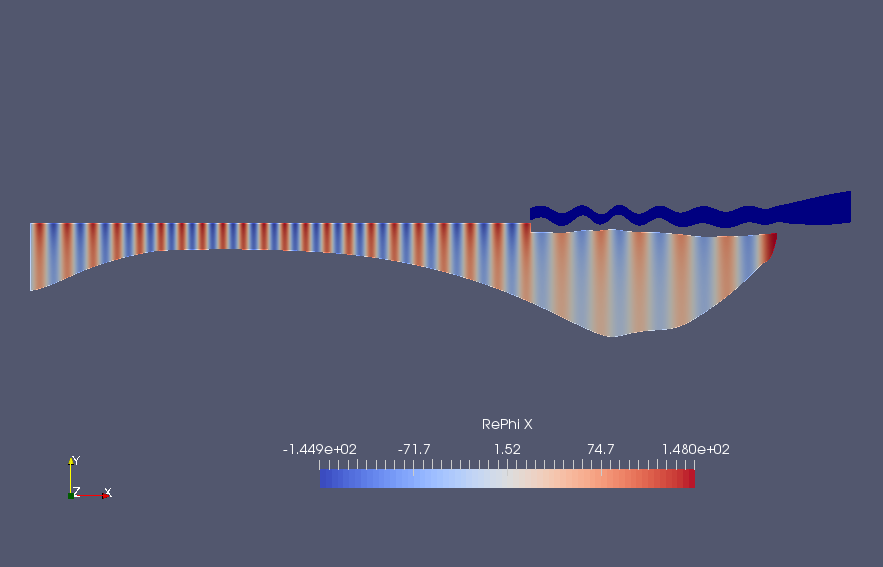
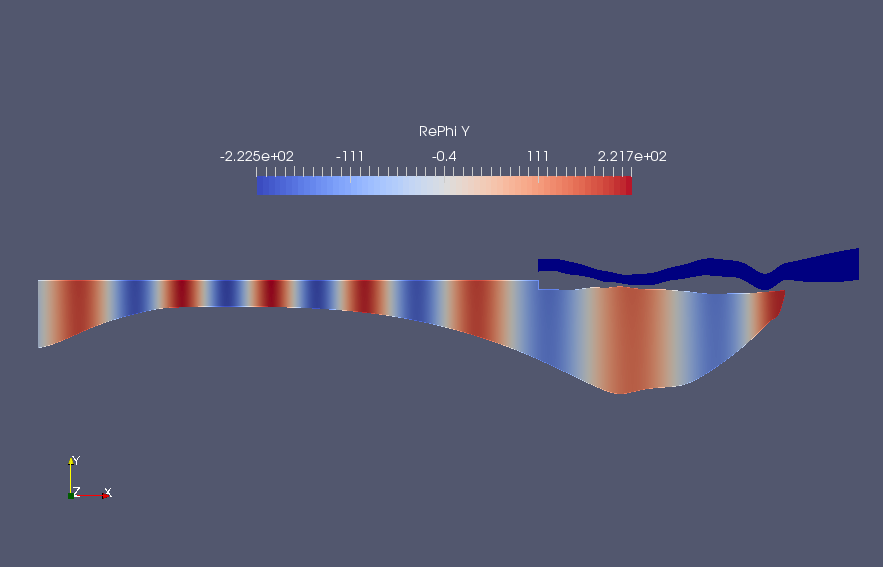
Update README and code

diff --git a/thinPlate.m b/thinPlate.m
@@ -2,10 +2,10 @@ clear
 clc
 
 [~,~,~,~,E,nu,rhow,rhoi,g,~]=getProperties();
-H=500;
-L=20000;
+H=800;
+L=10000;
 th=200;
-T=80;
+T=200;
 omega=2*pi/T;
 d=(rhoi/rhow)*th;
 NModes = 10;
@@ -33,7 +33,6 @@ for m=1:length(xpts)
 end
 
 figure(1)
-subplot(2,1,2);
 plot(xpts,Ufd,'linewidth',3);
 xlim([xpts(1),xpts(end)]);
 hold on

diff --git a/modules/getProperties.m b/modules/getProperties.m
@@ -8,7 +8,7 @@ rhow = 1025;
 rhoi = 922.5;
 d = rhoi/rhow*th;
 
-E = 11*10^9;
+E = 2*10^9;
 nu = 0.33;
 g = 9.80665;
 

diff --git a/README.md b/README.md
@@ -1,5 +1,13 @@
 # iceFEM++
 
+## Dependencies
+- [**FreeFem**](https://freefem.org):
+    A high level multiphysics finite element software. Full version with the `MPI` implementation and the `ffddm` module is required. The full version can be downloaded from the official website.
+- [**Bedmap2 Toolbox**](https://au.mathworks.com/matlabcentral/fileexchange/42353-bedmap2-toolbox-for-matlab):      
+    To obtain real--life shelf/cavity data. This is available as a MATLAB toolbox.
+- **MATLAB**: This is really not a constraint if you are using the package without the BEDMAP2 plugin. Interpolation and related operations can be done using other packages. However, a list of `MATLAB` scripts are available for this purpose to make things easier.
+- **Unix based OS:** Currently this program is written assuming a Unix based Operating system. Future support for windows will be added.
+
 ## Introduction
 
 This iteration of iceFEM implements the algorithms in parallel with an aim to solve bigger problems. For this implementation, the program requires the ``MPI`` version of FreeFem installed. If the full program is installed, the parallel version is available by default. For the main branch visit the link [here](https://github.com/Balaje/iceFem/tree/master). The schematic and
@@ -13,7 +21,7 @@ To setup and use the package, cd into the package directory, open up terminal an
 ```shell
 export FF_INCLUDEPATH="$PWD/include" #Add the include/ folder into the FreeFem++ environment variable. Needs to be run for the first time.
 ./genDir.sh 1_SIMPLE5/
-mpirun -np 4 FreeFem++-mpi -v 0 simple5.edp
+mpirun -np 2 FreeFem++-mpi -v 0 iceshelf2d.edp -nev 16 -Tr 80 -hsize 0.05 -notchHeight 0.0 -isUniRef 0 -isSplit 1 -N 15
 ```
 
 The second command creates the necessary directory structure for organising the solution better. The last command computes the solution for a default uniform ice-shelf and cavity with
@@ -35,23 +43,24 @@ mpirun -np 4 FreeFem++-mpi -ne -v 0 simple5.edp -L [LENGTH] -H [DEPTH OF CAVITY]
                                  -isSplit [ON/OFF DOMAIN SPLITTING]
                                  -notchHeight [HEIGHT_FRAC_THICKNESS]
                                  -notchWidth [HEIGHT_FRAC_THICKNESS]
-                                 -notchLoc [LOC_FRAC_LENGTH]
+                                 -notchLoc [LOC_FRAC_LENGTH]   
+                                 -isUniRef [ON/OFF Uniform Refinement]                              
 ```
 
-To specify the dimension of the problem and the polynomial order of approximation, define the following macros in the code
+The non-uniform refinement is performed proportional to shelf thickness. To specify the dimension of the problem and the polynomial order of approximation, define the following macros in the code
 
 ```cpp
-macro dimension 3//EOM" (dim=3)
-macro fspace 1//EOM" (fespace=P1)
+macro dimension 2//EOM" (dim=3)
+macro fspace 2//EOM" (fespace=P1)
 ```
 
 to solve a 3D problem using linear tetrahedral elements. Note that FreeFem offers support only for triangles/tetrahedrons. The non-local boundary condition has been extended to accommodate  more general cases.
 
 
-**Example: Run**
+**Example 1: Run**
 
 ```shell
-mpirun -np 4 FreeFem++-mpi -ne -v 0 simple5.edp -L 10000 -H 800 -h 200 -N 4 -Tr 200 -Ti 0 -iter 0 -hsize 0.01 -isSplit 1
+mpirun -np 4 FreeFem++-mpi -ne -v 0 iceshelf2d.edp -L 10000 -H 800 -h 200 -N 10 -Tr 200 -Ti 0 -iter 0 -hsize 0.04 -isSplit 1
 ```
 
 The parameter ``hsize`` is used in uniform refinement of the ice and cavity meshes and is used by the macro ```refineMesh```. A better method will be added in future releases. Splitting is employed to parallelise the computation of the reduced system. For a set of space-dimensional parameters for example, length, thickness of the ice shelf, splitting can be done once. This is achieved using the macro,
@@ -59,80 +68,69 @@ The parameter ``hsize`` is used in uniform refinement of the ice and cavity mesh
 ``` cpp
 splitMesh(isSplit);
 ```
-where ```isSplit``` is a global variable that indicates whether the splitting is active or not. The splitting macro will split the mesh and distribute the sub-meshes among the processors. The following data for the reflection coefficient is obtained.
+where ```isSplit``` is a global variable that indicates whether the splitting is active or not. The splitting macro will split the mesh and distribute the sub-meshes among the processors. The following data for the reflection coefficient is obtained. The thin-plate solution is shown as comparison to the FEM result.
 
-| Reflection Coefficient, R | abs(R) |
------ | ---- |
-| (0.792773933482978,0.6095157835447178) | 1.000000000000102 |
+Model | Reflection Coefficient, R | abs(R) |
+---- |----- | ---- |
+FEM | (0.482959,0.875643) | 1.000000 |
+Thin Plate| (0.493626,0.869740) | 1.000000 |
 
 All the visualization is performed using Paraview. The code produces the following outputs for the displacement field and the velocity potential in the cavity region.
 
-| Displacement | real(Velocity Potential)|
+| Displacement/Potential (FEM) | Displacement (ThinPlate) |
 | --- | ---- |
 |  ![Displacement](./Images/ReDisp1.png) | ![Velocity Potential](./Images/RePhi1.png) |
 
 
+**Example 2: Floating elastic plate Motion**
 
+Run:
+```shell
+mpirun -np 2 FreeFem++-mpi -v 0 iceberg.edp -N1 20 -N2 30 -Tr 40 -L 3000 -H 2000 -h 200 -nev 8 -iter test
+```
+solves the floating elastic plate vibration problem for an incident period of ``T=40s``. The output is shown in the Figure below:
+
+![Displacement](./Images/iceberg1.png)
+
+The reflection and transmission coefficients are shown in the Table below:
+
+omega | R(omega) | T(omega) | abs(R)^2+abs(T)^2 |
+--- | --- | --- | --- |
+T=40 s | (0.475792,-0.647576) | (0.479653,0.352414) | 1.00000 |
+
+which verrify the energy conservation result. Note that `T(omega)=0` in ice--shelf case since there is no transmission. The Q-operator boundary condition is applied on both the ends while the wave forcing function is applied only on the left hand side (inlet boundary).
 
 
 ## BEDMAP2 Integration
 
 Real-life ice-shelf profiles can be obtained using the BEDMAP2 dataset to generate the finite element meshes. Download the BEDMAP2 dataset [here](https://www.mathworks.com/matlabcentral/fileexchange/42353-bedmap2-toolbox-for-matlab). The BEDMAP2 dataset is integrated with the code in a similar fashion to the [main branch](https://github.com/Balaje/iceFem/tree/master#bedmap2-integration). The profiles are generated using the MATLAB code ```bedMapProfile.m```. Once the profiles are generated, the resulting problem could be solved using the FreeFem code.
 
-A sample profile has been added in the ```Meshes/BEDMAP2/``` folder. The sample profiles include the cavity region beyond the ice shelf. Run the following command to generate the solution for two incident wave periods.
+A sample profile has been added in the ```Meshes/BEDMAP2/``` folder. The sample profiles include the cavity region beyond the ice shelf. To generate the directories for BEDMAP2. Run
 
 ```shell
-mpirun -np 4 FreeFem++-mpi -ne -v 0 solveBEDMAP2.edp -nborders 6 -isMesh 1 -iter 1 -hsize 0.02 -Tr 50 -notchHeight 0.0 -N 12
-mpirun -np 4 FreeFem++-mpi -ne -v 0 solveBEDMAP2.edp -nborders 6 -isMesh 0 -iter 0 -hsize 0.02 -Tr 5000 -notchHeight 0.0 -N 12
+./genDir.sh 1_BEDMAP2
+```
+
+ Run the following command to generate the solution for two incident wave periods.
+
+```shell
+mpirun -np 2 FreeFem++-mpi -ne -v 0 solveBEDMAP2.edp -isMesh 1 -iter 1 -hsize 0.08 -Tr 200 -notchHeight 0.0 -N 5
+mpirun -np 2 FreeFem++-mpi -ne -v 0 solveBEDMAP2.edp -isMesh 0 -iter 1 -hsize 0.08 -Tr 4000 -notchHeight 0.0 -N 5
 ```
 
 and it produces the following outputs. Note the scales along the ``y`` axis is exaggerated for better visualization.
 
-| T=50 s | T=5000 s |
+| T=200 s | T=6000 s |
 | --- | --- |
 | ![BEDMAP 1](./Images/BM1.png) | ![BEDMAP 2](./Images/BM2.png) |
 
-The reflection coefficients are tabulated below
+The reflection coefficients are tabulated below:
 
 T | Reflection Coefficient, R | abs(R) |
 ---| ---- | ---- |
-50 s| (-0.6127195477019034,-0.7903004212727593) | 0.999999999999963 |
-5000 s | (-0.8500749126487752,-0.5266617918155339) | 1.000000000036586 |
+200 s| (-0.823879,-0.566776) |  1.000006|
+4000 s | (-0.987549,-0.157312) | 1.000000 |
 
-
-The number of DOFs and other data are shown below.
-
-```
-Cavity : Before Refinement, NBV = 7041
-Ice : Before Refinement, NBV = 2393
-Cavity : After Refinement, NBV = 236077
-Ice : After Refinement, NBV = 45467
-Number of in--vacuo modes = 64
-Time to solve per problem = 16.5614
-
-Total Time ~ 400-420 s (Without mesh construction)
-```
-We can see the improvement in parallelising the code. To solve 64 problems which takes about 16s each to solve, a serial code would take approx. ``64x16=1024s`` to solve. However, parallelising the code cuts the total time to about ``400s`` in total considering the time to solve the eigenvalue problem and the construction of the non-local boundary condition.
-
-I have also added support for adding artificial notches in the ice shelf. This is to simulate rifts in the ice which may accelerate calving in the ice. This is done by specifying parameters
-
-```shell
--notchHeight [HEIGHT_FRAC_THICKNESS]
--notchWidth [HEIGHT_FRAC_THICKNESS]
--notchLoc [LOC_FRAC_LENGTH]
-```
-where ``*_FRAC`` denotes the fraction of thickness/length. For example ```-notchHeight 0.8``` is a notch whose height is equal to 80% of the shelf thickness. Running the code for two incident wave periods produces the following results.
-
-| T=50 s | T=5000 s |
-| --- | --- |
-| ![BEDMAP 1](./Images/BM3.png) | ![BEDMAP 2](./Images/BM4.png) |
-
-The reflection coefficients are roughly similar since the notch can be considered to be a small perturbation of the original solution without the notch.
-
-T | Reflection Coefficient, R | abs(R) |
----| ---- | ---- |
-50 s| (-0.6399984548546397,-0.7683761954820765) | 0.9999999999999183 |
-5000 s | (-0.864578758274102,-0.502497333987288) | 0.9999999999615601 |
 
 ## 3D Problems
 
@@ -144,9 +142,9 @@ All the macros should work if the correct dimension has been specified and the c
 | --- | --- |
 | ![BEDMAP 1](./Images/boatCav1.png) | ![BEDMAP 2](./Images/iceCav2.png) |
 
-The first example is that of a floating boat. A detailed description of the geometry and the solution method can be found in this link here. The inlet and the outlet faces are prescribed by the user by specifying the appropriate labels. In this case, there is exactly one inlet (front plane, outward from the plane of the paper) and one outlet boundary (back, into the plane of the paper). No normal flow is prescribed on the sides and the bottom. The top surface is assigned as a free-surface.
+The first example is that of a floating boat which is an extension to an elastic plate problem in 2D. A detailed description of the geometry and the solution method can be found in this link here. The inlet and the outlet faces are prescribed by the user by specifying the appropriate labels. In this case, there is exactly one inlet (front plane, outward from the plane of the paper) and one outlet boundary (back, into the plane of the paper). No normal flow is prescribed on the sides and the bottom. The top surface is assigned as a free-surface.
 
-The second example is that of a classic ice--shelf vibration problem. The example here shows the vibration of a uniform ice-shelf of length 20 km and 200 m thick placed over a cavity of depth 500 m. The shelf is subjected to an incident wave forcing of 4000 s. The gray surface shows the 2D elasticity solution obtained using the same code. As mentioned earlier, there is a little bit of in-plane displacement along the third direction due to the contribution of the in-plane modes. Nevertheless, a good qualitative agreement is observed for the lower modes (which is a start!). This repository will be updated as more studies are conducted.
+The second example is that of a classic ice-shelf vibration problem. The example here shows the vibration of a uniform ice-shelf of length 20 km and 200 m thick placed over a cavity of depth 500 m. The shelf is subjected to an incident wave forcing of 4000 s. The gray surface shows the 2D elasticity solution obtained using the same code. As mentioned earlier, there is a little bit of in-plane displacement along the third direction due to the contribution of the in-plane modes. Nevertheless, a good qualitative agreement is observed for the lower modes. This repository will be updated as more studies are conducted.
 
 ## Acknowledgement
 This is joint work with my supervisors:
